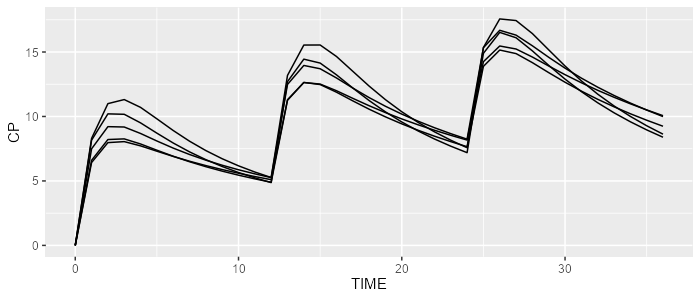
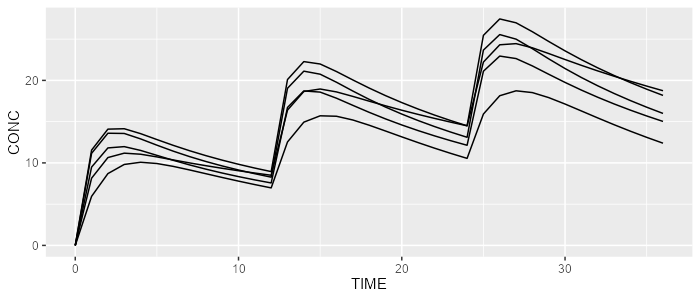
#55 Improve code coverage. Rerun README.

diff --git a/README.md b/README.md
@@ -23,7 +23,7 @@ Load 2-compartment PK model from built-in model library:
 
 ``` r
 library(campsismod)
-model <- model_library$advan4_trans4
+model <- model_suite$pk$`2cpt_fo`
 ```
 
 ### Write CAMPSIS model
@@ -43,50 +43,57 @@ list.files("path_to_model_folder")
 model <- read.campsis(file="path_to_model_folder")
 show(model)
 #> [MAIN]
-#> KA=THETA_KA*exp(ETA_KA)
-#> CL=THETA_CL*exp(ETA_CL)
-#> V2=THETA_V2*exp(ETA_V2)
-#> V3=THETA_V3*exp(ETA_V3)
-#> Q=THETA_Q*exp(ETA_Q)
-#> S2=V2
+#> TVKA=THETA_KA
+#> TVVC=THETA_VC
+#> TVVP=THETA_VP
+#> TVQ=THETA_Q
+#> TVCL=THETA_CL
+#> TVPROP_RUV=THETA_PROP_RUV
+#> 
+#> KA=TVKA * exp(ETA_KA)
+#> VC=TVVC * exp(ETA_VC)
+#> VP=TVVP * exp(ETA_VP)
+#> Q=TVQ * exp(ETA_Q)
+#> CL=TVCL * exp(ETA_CL)
+#> PROP_RUV=TVPROP_RUV
 #> 
 #> [ODE]
-#> d/dt(A_DEPOT)=-KA*A_DEPOT
-#> d/dt(A_CENTRAL)=KA*A_DEPOT + Q*A_PERIPHERAL/V3 + (-CL/V2 - Q/V2)*A_CENTRAL
-#> d/dt(A_PERIPHERAL)=-Q*A_PERIPHERAL/V3 + Q*A_CENTRAL/V2
-#> d/dt(A_OUTPUT)=CL*A_CENTRAL/V2
-#> F=A_CENTRAL/S2
+#> d/dt(A_ABS)=-KA*A_ABS
+#> d/dt(A_CENTRAL)=KA*A_ABS + Q/VP*A_PERIPHERAL - Q/VC*A_CENTRAL - CL/VC*A_CENTRAL
+#> d/dt(A_PERIPHERAL)=Q/VC*A_CENTRAL - Q/VP*A_PERIPHERAL
 #> 
 #> [ERROR]
-#> CP=F
-#> OBS_CP=CP*(EPS_PROP + 1)
-#> Y=OBS_CP
+#> CONC=A_CENTRAL/VC
+#> if (CONC <= 0.001) CONC=0.001
+#> IPRED=log(CONC)
+#> W=PROP_RUV
+#> Y=IPRED + W*EPS_RUV_FIX
 #> 
 #> 
 #> THETA's:
-#>   name index value   fix
-#> 1   KA     1     1 FALSE
-#> 2   CL     2     5 FALSE
-#> 3   V2     3    80 FALSE
-#> 4   V3     4    20 FALSE
-#> 5    Q     5     4 FALSE
+#>       name index value   fix
+#> 1       KA     1   1.0 FALSE
+#> 2       VC     2  60.0 FALSE
+#> 3       VP     3  10.0 FALSE
+#> 4        Q     4   2.0 FALSE
+#> 5       CL     5   3.0 FALSE
+#> 6 PROP_RUV     6   0.1 FALSE
 #> OMEGA's:
 #>   name index index2 value   fix type same
-#> 1   KA     1      1 0.025 FALSE  var   NA
-#> 2   CL     2      2 0.025 FALSE  var   NA
-#> 3   V2     3      3 0.025 FALSE  var   NA
-#> 4   V3     4      4 0.025 FALSE  var   NA
-#> 5    Q     5      5 0.025 FALSE  var   NA
+#> 1   KA     1      1    25 FALSE  cv%   NA
+#> 2   VC     2      2    25 FALSE  cv%   NA
+#> 3   VP     3      3    25 FALSE  cv%   NA
+#> 4    Q     4      4    25 FALSE  cv%   NA
+#> 5   CL     5      5    25 FALSE  cv%   NA
 #> SIGMA's:
-#>   name index index2 value   fix type
-#> 1 PROP     1      1 0.025 FALSE  var
+#>      name index index2 value  fix type
+#> 1 RUV_FIX     1      1     1 TRUE  var
 #> No variance-covariance matrix
 #> 
 #> Compartments:
-#> A_DEPOT (CMT=1)
+#> A_ABS (CMT=1)
 #> A_CENTRAL (CMT=2)
 #> A_PERIPHERAL (CMT=3)
-#> A_OUTPUT (CMT=4)
 ```
 
 ### Simulate with RxODE or mrgsolve
@@ -103,13 +110,21 @@ mrgsolve <- model %>% simulate(dataset=dataset, dest="mrgsolve", seed=1)
 ```
 
 ``` r
-spaghettiPlot(rxode, "CP")
+spaghettiPlot(rxode, "CONC")
+```
+
+``` r
+file.copy(file_vignette, "docs/articles/resources/")
 ```
 
 ![RxODE simulation results](vignettes/resources/results_rxode.png)
 
 ``` r
-spaghettiPlot(mrgsolve, "CP")
+spaghettiPlot(mrgsolve, "CONC")
+```
+
+``` r
+file.copy(file_vignette, "docs/articles/resources/")
 ```
 
 ![mrgsolve simulation results](vignettes/resources/results_mrgsolve.png)
